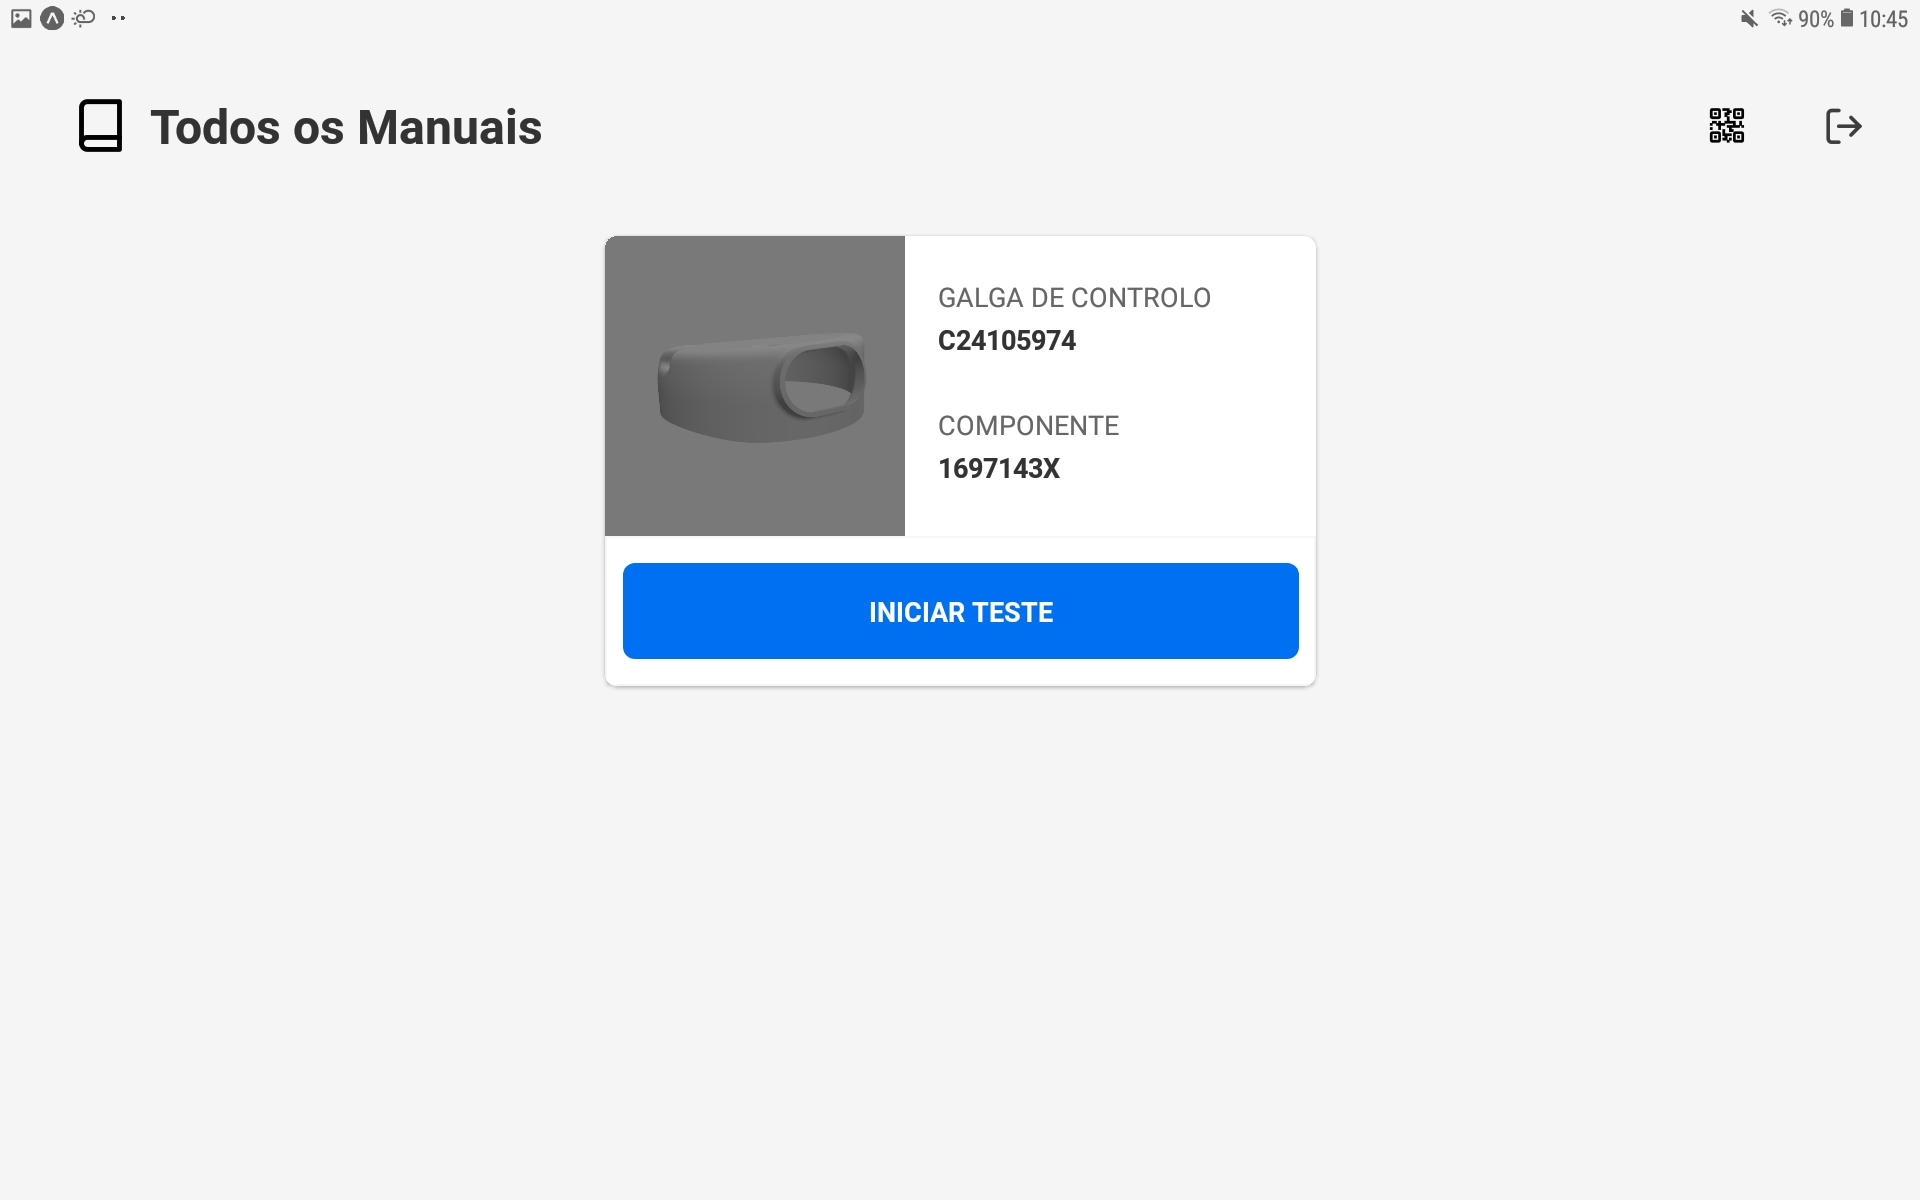
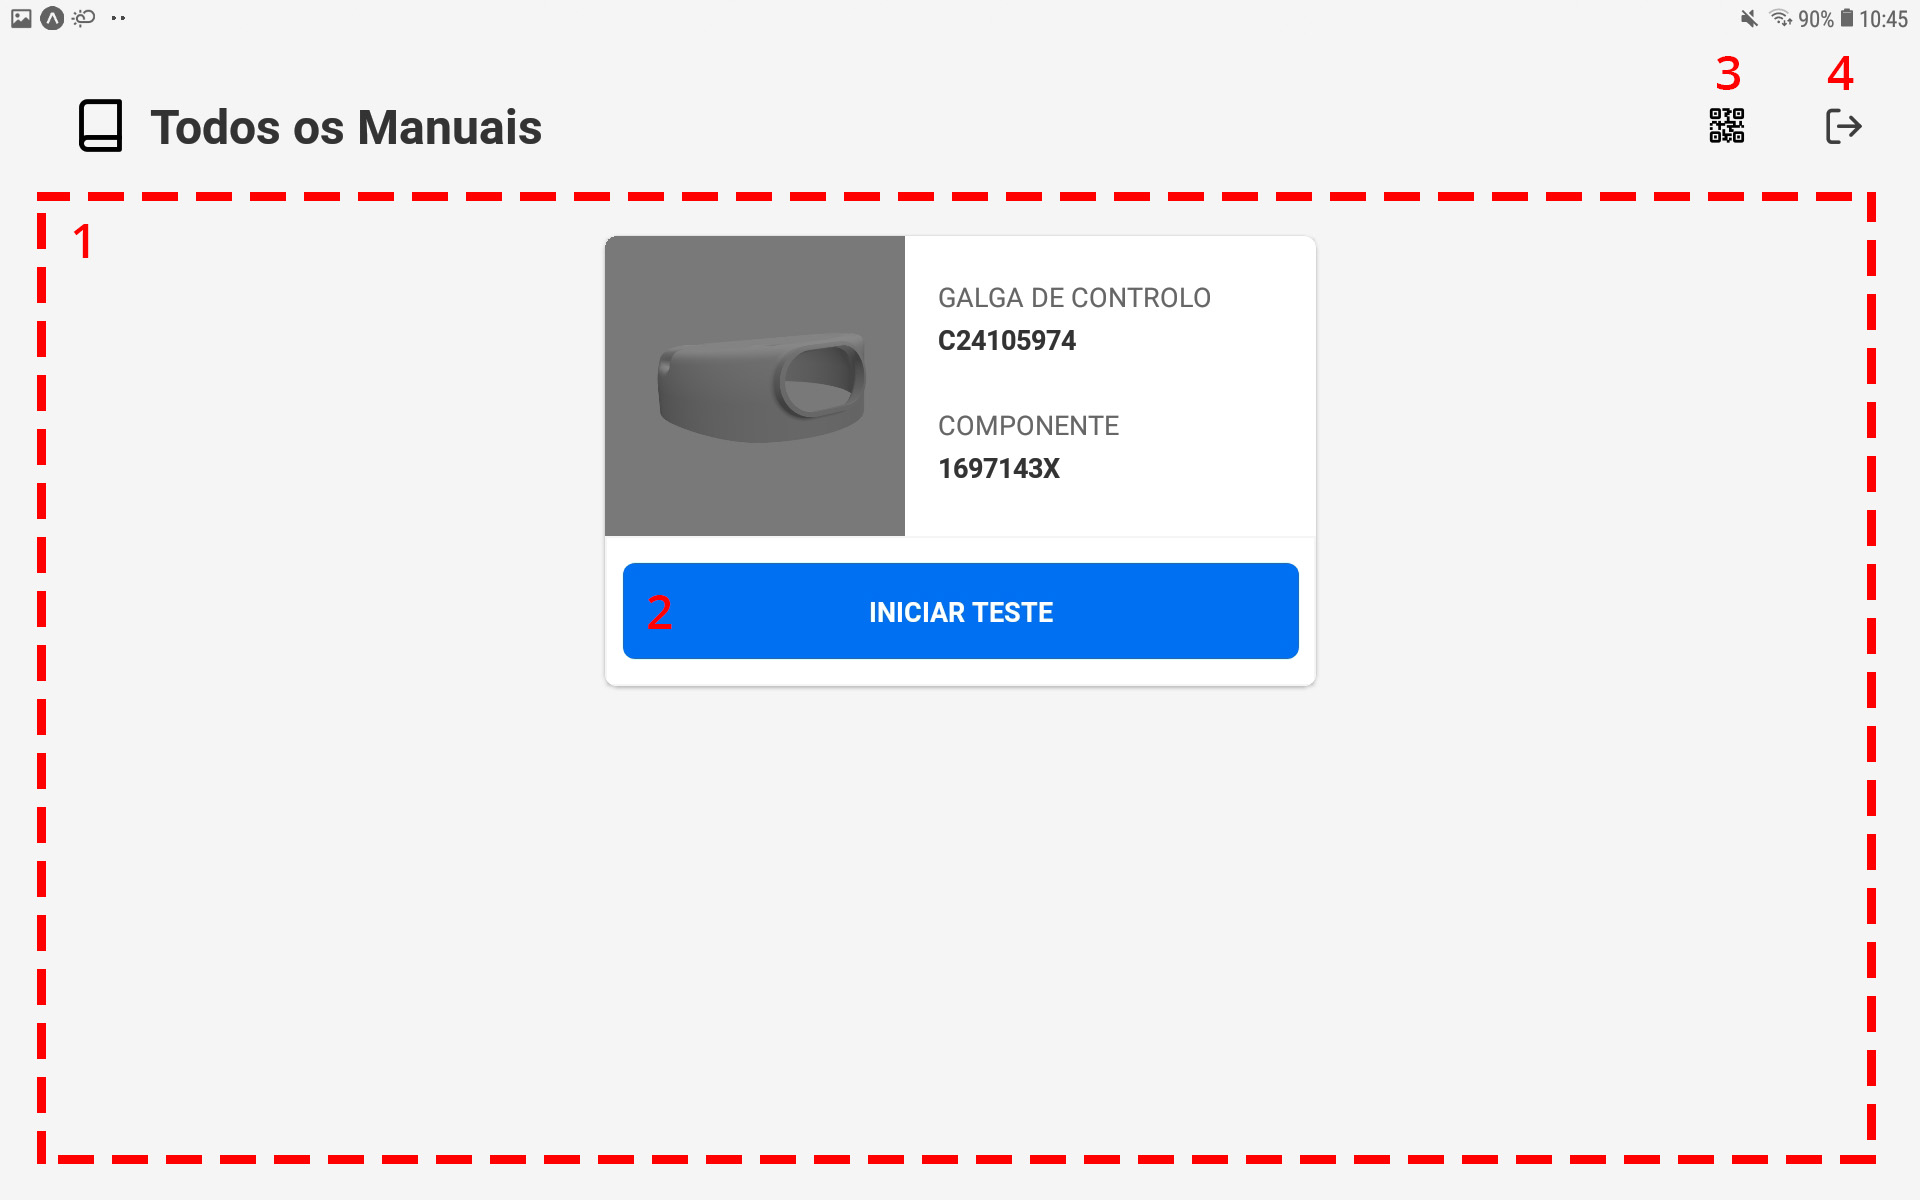
docs(user-guide): add images and examples

diff --git a/docs/user_guide.md b/docs/user_guide.md
@@ -8,23 +8,23 @@
 
 ## Login
 
-A tela de login é composta por um formulário com dois campos, email e senha. Ambos os campos são obrigatórios. Para iniciar o uso da aplicação primeiro insira a suas informações de login e selecione o botão "enter".
+A tela de login é composta por um formulário com os campos email e senha. Ambos os campos são obrigatórios. Para iniciar o uso da aplicação **insira a seu email e senha**, posteriormente **selecione o botão "ENTER"**.
 
 ![](images/login-screen.jpg)
 
-Em caso de erro no login, a seguinte tela será exibida. A tela de error contem informações sobre o erro ocorrido e também um botão que permite ao usuário retornar a tela anterior e tentar realizar a operação novamente.
+**Em caso de erro no login**, a seguinte tela de error será exibida. A tela de error contem informações sobre o erro ocorrido e também um botão que permite ao usuário retornar a tela anterior e tentar realizar o login novamente.
 
 ![](images/login-error-screen.jpg)
 
-Se tudo ocorreu corretamente, a tela de listagem de galgas de controlo estará disponível.
+Se o login ocorreu corretamente, a tela de listagem de galgas de controlo estará disponível.
 
-**Importante:** Após realizar o login, os dados de login do usuário ficam salvos. Caso deseje sair da conta é necessário utilizar o recurso de "log out" antes de iniciar qualquer outra operação.
+**Importante:** Após realizar o login, os dados de autenticação do usuário ficam salvos no dispositivo. Caso deseje sair da conta é necessário utilizar a opção de "log out".
 
 ## Galgas de Controlo
 
 A tela de galgas de controlo apresenta as seguintes funcionalidades:
 
-1. Listar Galgas de Controlo
+1. Listar manuais disponiveis
 1. Iniciar Teste
 1. Visualizar QR Code
 1. Realizar Log out
@@ -35,37 +35,41 @@ A tela de galgas de controlo apresenta as seguintes funcionalidades:
 
 A tela de análise apresenta as seguintes partes:
 
-1. Canvas de visualização
-1. Informações da galga de controlo
-1. Instruções
+1. [Canvas de visualização](###canvas-de-visualização)
+1. [Informações da análise](###informações-da-análise)
+1. [Instruções](###instruções)
 
 ![](images/analysis-screen-image.jpg)
 
 ### Canvas de visualização
 
-A canvas de visualização é utilizada para visualizar a operação relacionada a instrução selecionada, apresenta as seguintes funcionalidades:
-
-#### 1. Desistir da análise
-
-Ao selecionar está opção um alerta será exibido, caso confirme, a analise será descartada.
-
-#### 2. Alterar modo de visualização (Imagem ou 3D)
-
-Ao selecionar está opção o modo de visualização é alterado.
-O modo de imagem é estático e não oferece opções de interação.
-O modo de 3D permite o uso de zoom (gesto de pinça com dois dedos) e movimento da camera (deslizar o dedo sobre a tela).
+A canvas de visualização é utilizada para **visualizar a operação relacionada a instrução selecionada**, esta tela apresenta as seguintes funcionalidades:
 
 ![](images/analysis-screen-3D.jpg)
 
-### Informações da galga de controlo
+#### 1. Desistir da análise
 
-Está seção apresenta informações dop modelo do componente e da galga de controlo que está sendo utilizada na análise.
+Ao selecionar está opção um alerta será exibido e caso confirme, **a analise será descartada**. O usuário será retornado a tela de listagem das galgas de controlo.
+
+#### 2. Alterar modo de visualização (Imagem ou 3D)
+
+Ao selecionar está opção o modo de visualização da canvas é alterado.
+
+O **modo de imagem** é estático, exibe imagens extraídas do manual do componente e não oferece opções de interação.
+
+O **modo de 3D** exibe animações da operação que será realizada, permite o uso de zoom _(gesto de pinça com dois dedos)_ e movimento da camera _(deslizar o dedo sobre a tela)_.
+
+### Informações da Análise
+
+Está seção apresenta informações sobre o modelo do componente e da galga de controlo que está sendo utilizada na análise.
 
 ![](images/analysis-screen-info.jpg)
 
 ### Instruções
 
-O componente de instruções é composta pelo progresso da análise (1), instrução (2) e botão para finalizar (3).
+O componente de instruções é composta pelo **progresso da análise (1)**, **card de instrução (2)** e botão "FINALIZAR".
+
+![](images/analysis-screen-instruction.jpg)
 
 #### Progresso da análise
 
@@ -73,18 +77,27 @@ O progresso da análise é atualizado conforme as instruções são realizadas.
 
 #### Instrução
 
-As instruções podem ser selecionadas, aprovadas ou reprovadas.
+As instruções podem ser:
 
-![](images/analysis-screen-instruction.jpg)
+1. Selecionadas
+1. Aprovadas
+1. Reprovadas
 
 Ao selecionar uma instrução as opções de aprovar e reprovar serão exibidas.
 
-Ao selecionar a opção de **aprovar uma instrução**, o usuário será encaminhado para a próxima instrução será selecionada.
+Ao **aprovar uma instrução**, o usuário será encaminhado para a próxima instrução automaticamente.
 
-Ao **reprovar uma instrução**, o usuário será levado a uma tela especifica para reportar a falha. Nessa tela, o usuário devera selecionar a falha encontrada (1) e registrar uma foto da falha (2). Caso deseje adicionar mais alguma informação é possível utilizar o campo de descrição (3) para informações adicionais. Após as informações adicionadas basta selecionar "reportar falha".
+Ao **reprovar uma instrução**, o usuário será levado a uma tela especifica para reportar a falha. Nessa tela, o usuário deverá:
+
+1. Selecionar a falha encontrada (obrigatório)
+1. Adicionar informação adicional, utilizando o campo de descrição (opcional)
+1. Registrar uma foto da falha, acionará a camera do dispositivo (obrigatório)
+1. Selecionar o botão "reportar falha" para finalizar.
 
 ![](images/report-failure-screen.jpg)
 
-Após todas as instruções terem sido realizadas e o progresso da análise ter sido concluído é necessário selecionar o botão "finalizar" para reportar a análise.
+**Após todas as instruções terem sido realizadas** e o progresso da análise ter sido concluído **é necessário selecionar o botão "FINALIZAR" para reportar a análise**.
 
-Após essa operação o usuário será levado a tela de listagem das galgas.
+![](images/analysis-complete-screen.jpg)
+
+Finalmente, a análise será registrada e o usuário será redirecionado a tela de listagem das galgas.
